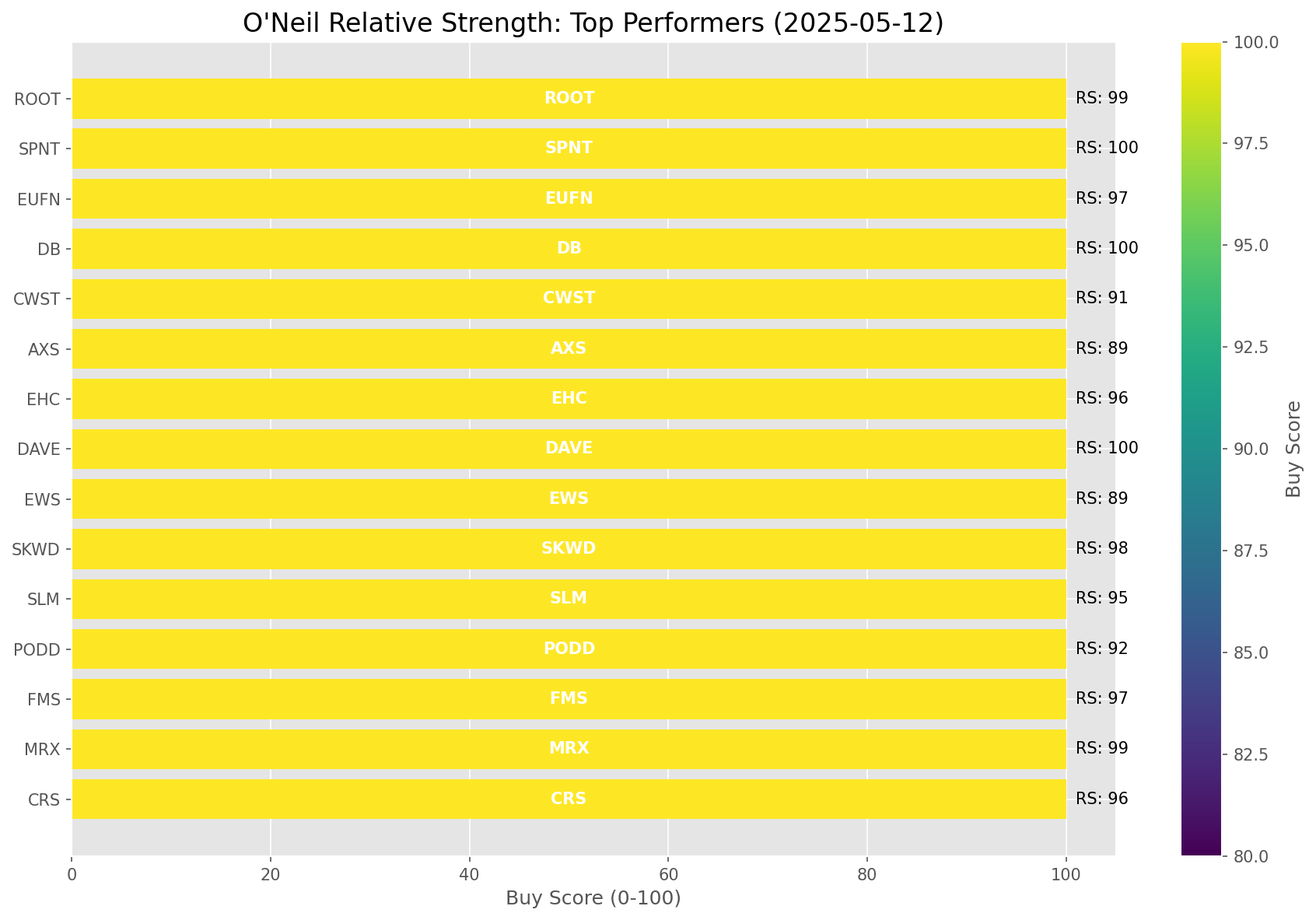
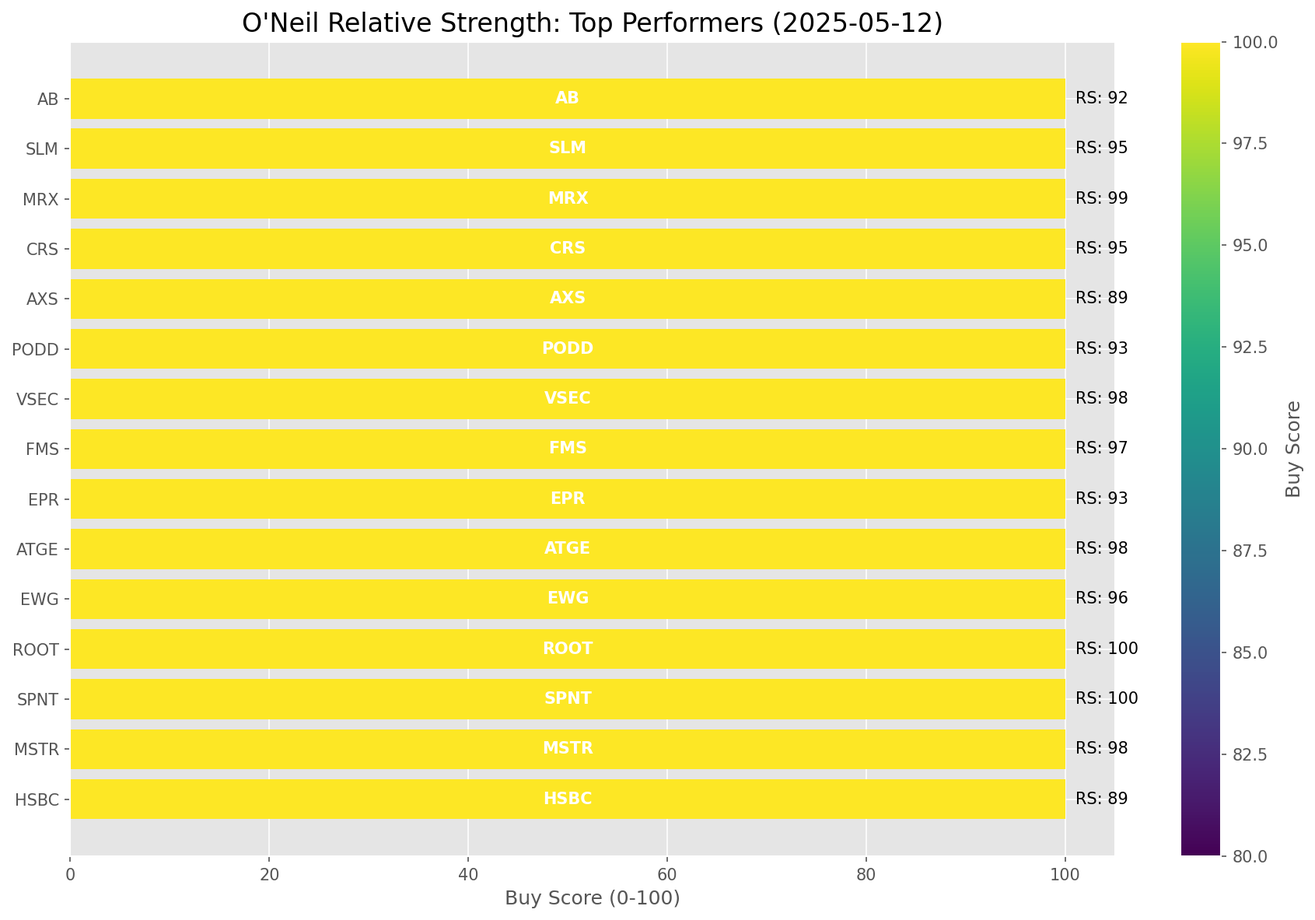
Add market report for 2025-05-12

diff --git a/oneil_relative_strength_report_2025-05-12.md b/oneil_relative_strength_report_2025-05-12.md
@@ -9,11 +9,11 @@
 | Metric | Value |
 |--------|-------|
 | **Market Valuation** | **Fair Valued** |
-| **Current Ratio** | 9.54 |
+| **Current Ratio** | 9.52 |
 | **Historical Mean** | 9.41 |
 | **Standard Deviation** | 0.51 |
 | **Z-Score (StdDev from Mean)** | -0.27 |
-| **Total Market Cap** | $285.97 trillion |
+| **Total Market Cap** | $285.36 trillion |
 | **GDP** | $29.98 trillion |
 
 ## **Market Insights**
@@ -49,41 +49,41 @@ Based on William O'Neil's Relative Strength Methodology
 
 | ETF | Strength | RS Rating | Performance | Above Key MAs | Trend | Sector |
 |-----|----------|-----------|-------------|--------------|-------|--------|
-| [KWEB](https://www.tradingview.com/chart/?symbol=KWEB) | 89.0 | 78.0 | 3.42% | 10d ✓, 50d ✓, 200d ✓ | ↗ | Chinese Internet |
-| [XLU](https://www.tradingview.com/chart/?symbol=XLU) | 87.0 | 74.0 | 1.66% | 10d ✓, 50d ✓, 200d ✓ | ↗ | Utilities |
-| [GLD](https://www.tradingview.com/chart/?symbol=GLD) | 86.1 | 92.0 | 11.10% | 10d ✗, 50d ✓, 200d ✓ | ↗ | Gold |
-| [XLI](https://www.tradingview.com/chart/?symbol=XLI) | 86.0 | 72.0 | 0.96% | 10d ✓, 50d ✓, 200d ✓ | ↗ | Industrial |
-| [XLF](https://www.tradingview.com/chart/?symbol=XLF) | 81.5 | 63.0 | -1.03% | 10d ✓, 50d ✓, 200d ✓ | ↗ | Financial |
-| [PAVE](https://www.tradingview.com/chart/?symbol=PAVE) | 81.5 | 63.0 | -1.00% | 10d ✓, 50d ✓, 200d ✓ | ↗ | Infrastructure |
-| [CIBR](https://www.tradingview.com/chart/?symbol=CIBR) | 80.5 | 61.0 | -1.51% | 10d ✓, 50d ✓, 200d ✓ | ↗ | Cybersecurity |
+| [KWEB](https://www.tradingview.com/chart/?symbol=KWEB) | 89.0 | 78.0 | 3.59% | 10d ✓, 50d ✓, 200d ✓ | ↗ | Chinese Internet |
+| [XLU](https://www.tradingview.com/chart/?symbol=XLU) | 86.5 | 73.0 | 1.41% | 10d ✓, 50d ✓, 200d ✓ | ↗ | Utilities |
+| [GLD](https://www.tradingview.com/chart/?symbol=GLD) | 86.1 | 92.0 | 11.17% | 10d ✗, 50d ✓, 200d ✓ | ↗ | Gold |
+| [XLI](https://www.tradingview.com/chart/?symbol=XLI) | 85.0 | 70.0 | 0.66% | 10d ✓, 50d ✓, 200d ✓ | ↗ | Industrial |
+| [XLF](https://www.tradingview.com/chart/?symbol=XLF) | 81.0 | 62.0 | -1.29% | 10d ✓, 50d ✓, 200d ✓ | ↗ | Financial |
+| [CIBR](https://www.tradingview.com/chart/?symbol=CIBR) | 80.0 | 60.0 | -1.70% | 10d ✓, 50d ✓, 200d ✓ | ↗ | Cybersecurity |
+| [PAVE](https://www.tradingview.com/chart/?symbol=PAVE) | 80.0 | 60.0 | -1.78% | 10d ✓, 50d ✓, 200d ✓ | ↗ | Infrastructure |
 | [IYZ](https://www.tradingview.com/chart/?symbol=IYZ) | 80.0 | 60.0 | -1.79% | 10d ✓, 50d ✓, 200d ✓ | ↗ | Telecommunications |
 | [DBA](https://www.tradingview.com/chart/?symbol=DBA) | 79.0 | 58.0 | -2.38% | 10d ✓, 50d ✓, 200d ✓ | ↗ | Agriculture |
-| [XLC](https://www.tradingview.com/chart/?symbol=XLC) | 76.0 | 52.0 | -4.01% | 10d ✓, 50d ✓, 200d ✓ | ↗ | Communications |
-| [AIQ](https://www.tradingview.com/chart/?symbol=AIQ) | 75.5 | 51.0 | -4.40% | 10d ✓, 50d ✓, 200d ✓ | ↗ | Artificial Intelligence & Technology |
-| [XLY](https://www.tradingview.com/chart/?symbol=XLY) | 70.5 | 41.0 | -6.54% | 10d ✓, 50d ✓, 200d ✓ | ↗ | Consumer Discretionary |
-| [BLOK](https://www.tradingview.com/chart/?symbol=BLOK) | 70.0 | 40.0 | -6.89% | 10d ✓, 50d ✓, 200d ✓ | ↗ | Blockchain & Cryptocurrency |
-| [IYR](https://www.tradingview.com/chart/?symbol=IYR) | 69.8 | 60.0 | -1.75% | 10d ✓, 50d ✓, 200d ✗ | ↗ | Real Estate |
-| [ARKF](https://www.tradingview.com/chart/?symbol=ARKF) | 68.0 | 36.0 | -8.31% | 10d ✓, 50d ✓, 200d ✓ | ↗ | Fintech Innovation |
-| [XLP](https://www.tradingview.com/chart/?symbol=XLP) | 66.7 | 73.0 | 1.15% | 10d ✗, 50d ✗, 200d ✓ | ↗ | Consumer Staples |
-| [SLV](https://www.tradingview.com/chart/?symbol=SLV) | 66.7 | 73.0 | 1.22% | 10d ✗, 50d ✗, 200d ✓ | ↗ | Silver |
-| [ICLN](https://www.tradingview.com/chart/?symbol=ICLN) | 65.3 | 91.0 | 9.97% | 10d ✓, 50d ✓, 200d ✗ | ↘ | Clean Energy |
+| [SLV](https://www.tradingview.com/chart/?symbol=SLV) | 76.6 | 73.0 | 1.47% | 10d ✓, 50d ✗, 200d ✓ | ↗ | Silver |
+| [XLC](https://www.tradingview.com/chart/?symbol=XLC) | 75.5 | 51.0 | -4.16% | 10d ✓, 50d ✓, 200d ✓ | ↗ | Communications |
+| [AIQ](https://www.tradingview.com/chart/?symbol=AIQ) | 74.5 | 49.0 | -4.51% | 10d ✓, 50d ✓, 200d ✓ | ↗ | Artificial Intelligence & Technology |
+| [IYR](https://www.tradingview.com/chart/?symbol=IYR) | 70.3 | 61.0 | -1.46% | 10d ✓, 50d ✓, 200d ✗ | ↗ | Real Estate |
+| [XLY](https://www.tradingview.com/chart/?symbol=XLY) | 70.0 | 40.0 | -6.72% | 10d ✓, 50d ✓, 200d ✓ | ↗ | Consumer Discretionary |
+| [BLOK](https://www.tradingview.com/chart/?symbol=BLOK) | 67.5 | 35.0 | -8.11% | 10d ✓, 50d ✓, 200d ✓ | ↗ | Blockchain & Cryptocurrency |
+| [ARKF](https://www.tradingview.com/chart/?symbol=ARKF) | 67.5 | 35.0 | -8.40% | 10d ✓, 50d ✓, 200d ✓ | ↗ | Fintech Innovation |
+| [ICLN](https://www.tradingview.com/chart/?symbol=ICLN) | 65.3 | 91.0 | 9.84% | 10d ✓, 50d ✓, 200d ✗ | ↘ | Clean Energy |
 | [ARKW](https://www.tradingview.com/chart/?symbol=ARKW) | 63.5 | 27.0 | -11.46% | 10d ✓, 50d ✓, 200d ✓ | ↗ | Next Generation Internet |
-| [JETS](https://www.tradingview.com/chart/?symbol=JETS) | 62.5 | 25.0 | -12.53% | 10d ✓, 50d ✓, 200d ✓ | ↗ | Airlines |
-| [ARKK](https://www.tradingview.com/chart/?symbol=ARKK) | 61.5 | 23.0 | -13.57% | 10d ✓, 50d ✓, 200d ✓ | ↗ | Innovation |
-| [XLK](https://www.tradingview.com/chart/?symbol=XLK) | 55.5 | 51.0 | -4.23% | 10d ✓, 50d ✓, 200d ✓ | ↘ | Technology |
-| [URA](https://www.tradingview.com/chart/?symbol=URA) | 52.5 | 45.0 | -5.67% | 10d ✓, 50d ✓, 200d ✓ | ↘ | Uranium |
-| [XLB](https://www.tradingview.com/chart/?symbol=XLB) | 49.3 | 59.0 | -2.13% | 10d ✓, 50d ✓, 200d ✗ | ↘ | Materials |
+| [ARKK](https://www.tradingview.com/chart/?symbol=ARKK) | 61.0 | 22.0 | -13.66% | 10d ✓, 50d ✓, 200d ✓ | ↗ | Innovation |
+| [JETS](https://www.tradingview.com/chart/?symbol=JETS) | 61.0 | 22.0 | -13.64% | 10d ✓, 50d ✓, 200d ✓ | ↗ | Airlines |
+| [IYT](https://www.tradingview.com/chart/?symbol=IYT) | 59.3 | 39.0 | -6.97% | 10d ✓, 50d ✓, 200d ✗ | ↗ | Transportation |
+| [XLP](https://www.tradingview.com/chart/?symbol=XLP) | 56.0 | 72.0 | 0.97% | 10d ✗, 50d ✗, 200d ✗ | ↗ | Consumer Staples |
+| [XLK](https://www.tradingview.com/chart/?symbol=XLK) | 54.5 | 49.0 | -4.47% | 10d ✓, 50d ✓, 200d ✓ | ↘ | Technology |
+| [URA](https://www.tradingview.com/chart/?symbol=URA) | 51.0 | 42.0 | -5.98% | 10d ✓, 50d ✓, 200d ✓ | ↘ | Uranium |
+| [XLB](https://www.tradingview.com/chart/?symbol=XLB) | 48.3 | 57.0 | -2.54% | 10d ✓, 50d ✓, 200d ✗ | ↘ | Materials |
 | [BIL](https://www.tradingview.com/chart/?symbol=BIL) | 43.4 | 67.0 | 0.03% | 10d ✓, 50d ✗, 200d ✗ | ↘ | Short-term Treasuries |
-| [SOXX](https://www.tradingview.com/chart/?symbol=SOXX) | 41.8 | 44.0 | -5.79% | 10d ✓, 50d ✓, 200d ✗ | ↘ | Semiconductors |
-| [IYT](https://www.tradingview.com/chart/?symbol=IYT) | 39.3 | 39.0 | -7.21% | 10d ✓, 50d ✓, 200d ✗ | ↘ | Transportation |
-| [ITB](https://www.tradingview.com/chart/?symbol=ITB) | 38.8 | 38.0 | -7.35% | 10d ✓, 50d ✓, 200d ✗ | ↘ | Home Construction |
-| [DBC](https://www.tradingview.com/chart/?symbol=DBC) | 35.4 | 51.0 | -4.35% | 10d ✓, 50d ✗, 200d ✗ | ↘ | Commodities |
-| [UUP](https://www.tradingview.com/chart/?symbol=UUP) | 33.4 | 47.0 | -5.17% | 10d ✓, 50d ✗, 200d ✗ | ↘ | U.S. Dollar |
-| [XLE](https://www.tradingview.com/chart/?symbol=XLE) | 31.4 | 43.0 | -6.03% | 10d ✓, 50d ✗, 200d ✗ | ↘ | Energy |
-| [TLT](https://www.tradingview.com/chart/?symbol=TLT) | 28.5 | 57.0 | -2.54% | 10d ✗, 50d ✗, 200d ✗ | ↘ | Long-term Treasuries |
-| [ARKG](https://www.tradingview.com/chart/?symbol=ARKG) | 28.3 | 17.0 | -16.65% | 10d ✓, 50d ✓, 200d ✗ | ↘ | Genomics |
-| [XLV](https://www.tradingview.com/chart/?symbol=XLV) | 18.5 | 37.0 | -7.79% | 10d ✗, 50d ✗, 200d ✗ | ↘ | Healthcare |
-| [IBB](https://www.tradingview.com/chart/?symbol=IBB) | 14.5 | 29.0 | -11.06% | 10d ✗, 50d ✗, 200d ✗ | ↘ | Biotechnology |
+| [SOXX](https://www.tradingview.com/chart/?symbol=SOXX) | 41.3 | 43.0 | -5.88% | 10d ✓, 50d ✓, 200d ✗ | ↘ | Semiconductors |
+| [ITB](https://www.tradingview.com/chart/?symbol=ITB) | 37.3 | 35.0 | -8.17% | 10d ✓, 50d ✓, 200d ✗ | ↘ | Home Construction |
+| [DBC](https://www.tradingview.com/chart/?symbol=DBC) | 33.9 | 48.0 | -4.71% | 10d ✓, 50d ✗, 200d ✗ | ↘ | Commodities |
+| [UUP](https://www.tradingview.com/chart/?symbol=UUP) | 32.9 | 46.0 | -5.15% | 10d ✓, 50d ✗, 200d ✗ | ↘ | U.S. Dollar |
+| [XLE](https://www.tradingview.com/chart/?symbol=XLE) | 29.9 | 40.0 | -6.63% | 10d ✓, 50d ✗, 200d ✗ | ↘ | Energy |
+| [TLT](https://www.tradingview.com/chart/?symbol=TLT) | 28.0 | 56.0 | -2.72% | 10d ✗, 50d ✗, 200d ✗ | ↘ | Long-term Treasuries |
+| [ARKG](https://www.tradingview.com/chart/?symbol=ARKG) | 27.8 | 16.0 | -17.52% | 10d ✓, 50d ✓, 200d ✗ | ↘ | Genomics |
+| [XLV](https://www.tradingview.com/chart/?symbol=XLV) | 19.0 | 38.0 | -7.27% | 10d ✗, 50d ✗, 200d ✗ | ↘ | Healthcare |
+| [IBB](https://www.tradingview.com/chart/?symbol=IBB) | 14.0 | 28.0 | -11.29% | 10d ✗, 50d ✗, 200d ✗ | ↘ | Biotechnology |
 
 ### **Sector ETF Performance Interpretation**
 
@@ -100,157 +100,158 @@ This table shows the relative strength metrics for different market sectors base
 
 The current market leadership is coming from the following sectors: **Chinese Internet, Utilities, Gold**.
 
-The **Chinese Internet** sector (represented by **KWEB**) is showing particularly strong relative strength with an RS rating of 78.0 and performance of 3.42% vs. the S&P 500. This sector is trading above its 10-day, 50-day, 200-day moving average(s). Investors should consider focusing on high RS stocks within these leading sectors for potential outperformance.
+The **Chinese Internet** sector (represented by **KWEB**) is showing particularly strong relative strength with an RS rating of 78.0 and performance of 3.59% vs. the S&P 500. This sector is trading above its 10-day, 50-day, 200-day moving average(s). Investors should consider focusing on high RS stocks within these leading sectors for potential outperformance.
 
 ---
 
 ## **Buy Recommendations**
 
-The following 52 stocks show exceptional relative strength:
+The following 50 stocks show exceptional relative strength:
 
 | RS Rating | Buy Score | Current Price | Chart | Name | Ticker |
 |-----------|-----------|---------------|-------|------|--------|
-| 100 | 100 | $171.49 | [Chart](https://www.tradingview.com/chart/?symbol=DAVE) | Dave Inc. Class A Common Stock | DAVE |
-| 100 | 100 | $27.34 | [Chart](https://www.tradingview.com/chart/?symbol=DB) | Deutsche Bank Aktiengesellschaft | DB |
 | 100 | 100 | $19.27 | [Chart](https://www.tradingview.com/chart/?symbol=SPNT) | SiriusPoint Ltd. | SPNT |
-| 100 | 100 | $87.50 | [Chart](https://www.tradingview.com/chart/?symbol=SEZL) | Sezzle Inc. Common Stock | SEZL |
-| 100 | 100 | $159.93 | [Chart](https://www.tradingview.com/chart/?symbol=PLMR) | Palomar Holdings, Inc. Common stock | PLMR |
-| 100 | 100 | $24.08 | [Chart](https://www.tradingview.com/chart/?symbol=GRND) | Grindr Inc. | GRND |
-| 99 | 100 | $47.38 | [Chart](https://www.tradingview.com/chart/?symbol=MRX) | Marex Group plc Ordinary Shares | MRX |
-| 99 | 100 | $152.00 | [Chart](https://www.tradingview.com/chart/?symbol=ROOT) | Root, Inc. Class A Common Stock | ROOT |
-| 99 | 100 | $70.17 | [Chart](https://www.tradingview.com/chart/?symbol=ULS) | UL Solutions Inc. | ULS |
-| 99 | 100 | $135.70 | [Chart](https://www.tradingview.com/chart/?symbol=ATGE) | Adtalem Global Education Inc. Common Shares | ATGE |
-| 98 | 100 | $59.87 | [Chart](https://www.tradingview.com/chart/?symbol=SKWD) | Skyward Specialty Insurance Group, Inc. Common Stock | SKWD |
-| 98 | 100 | $34.20 | [Chart](https://www.tradingview.com/chart/?symbol=AHR) | American Healthcare REIT, Inc. | AHR |
+| 100 | 100 | $153.00 | [Chart](https://www.tradingview.com/chart/?symbol=ROOT) | Root, Inc. Class A Common Stock | ROOT |
+| 100 | 100 | $27.41 | [Chart](https://www.tradingview.com/chart/?symbol=DB) | Deutsche Bank Aktiengesellschaft | DB |
+| 100 | 100 | $88.08 | [Chart](https://www.tradingview.com/chart/?symbol=SEZL) | Sezzle Inc. Common Stock | SEZL |
+| 100 | 100 | $174.50 | [Chart](https://www.tradingview.com/chart/?symbol=DAVE) | Dave Inc. Class A Common Stock | DAVE |
+| 100 | 100 | $153.68 | [Chart](https://www.tradingview.com/chart/?symbol=PLMR) | Palomar Holdings, Inc. Common stock | PLMR |
+| 99 | 100 | $47.30 | [Chart](https://www.tradingview.com/chart/?symbol=MRX) | Marex Group plc Ordinary Shares | MRX |
+| 99 | 100 | $70.01 | [Chart](https://www.tradingview.com/chart/?symbol=ULS) | UL Solutions Inc. | ULS |
+| 99 | 100 | $23.63 | [Chart](https://www.tradingview.com/chart/?symbol=GRND) | Grindr Inc. | GRND |
+| 98 | 100 | $408.57 | [Chart](https://www.tradingview.com/chart/?symbol=MSTR) | MicroStrategy Inc | MSTR |
+| 98 | 100 | $132.59 | [Chart](https://www.tradingview.com/chart/?symbol=ATGE) | Adtalem Global Education Inc. Common Shares | ATGE |
 | 98 | 100 | $129.14 | [Chart](https://www.tradingview.com/chart/?symbol=VSEC) | VSE Corp | VSEC |
+| 98 | 100 | $34.69 | [Chart](https://www.tradingview.com/chart/?symbol=AHR) | American Healthcare REIT, Inc. | AHR |
 | 97 | 100 | $28.39 | [Chart](https://www.tradingview.com/chart/?symbol=FMS) | Fresenius Medical Care AG | FMS |
-| 97 | 100 | $30.61 | [Chart](https://www.tradingview.com/chart/?symbol=EUFN) | iShares MSCI Europe Financials ETF | EUFN |
-| 97 | 100 | $22.88 | [Chart](https://www.tradingview.com/chart/?symbol=LAUR) | Laureate Education, Inc. Common Stock | LAUR |
-| 97 | 100 | $38.35 | [Chart](https://www.tradingview.com/chart/?symbol=PAY) | Paymentus Holdings, Inc. | PAY |
-| 97 | 100 | $33.95 | [Chart](https://www.tradingview.com/chart/?symbol=UTI) | Universal Technical Institute, Inc. | UTI |
-| 96 | 100 | $217.81 | [Chart](https://www.tradingview.com/chart/?symbol=CRS) | Carpenter Technology Corp | CRS |
-| 96 | 100 | $116.41 | [Chart](https://www.tradingview.com/chart/?symbol=EHC) | Encompass Health Corporation Common Stock | EHC |
-| 96 | 100 | $148.18 | [Chart](https://www.tradingview.com/chart/?symbol=CAH) | Cardinal Health, Inc. | CAH |
-| 96 | 100 | $40.27 | [Chart](https://www.tradingview.com/chart/?symbol=EWG) | iShares MSCI Germany ETF | EWG |
-| 95 | 100 | $33.13 | [Chart](https://www.tradingview.com/chart/?symbol=SLM) | SLM Corporation | SLM |
-| 95 | 100 | $142.64 | [Chart](https://www.tradingview.com/chart/?symbol=TW) | Tradeweb Markets Inc. Class A Common Stock | TW |
+| 97 | 100 | $116.66 | [Chart](https://www.tradingview.com/chart/?symbol=EHC) | Encompass Health Corporation Common Stock | EHC |
+| 97 | 100 | $148.07 | [Chart](https://www.tradingview.com/chart/?symbol=CAH) | Cardinal Health, Inc. | CAH |
+| 97 | 100 | $38.28 | [Chart](https://www.tradingview.com/chart/?symbol=PAY) | Paymentus Holdings, Inc. | PAY |
+| 97 | 100 | $30.70 | [Chart](https://www.tradingview.com/chart/?symbol=EUFN) | iShares MSCI Europe Financials ETF | EUFN |
+| 96 | 100 | $40.32 | [Chart](https://www.tradingview.com/chart/?symbol=EWG) | iShares MSCI Germany ETF | EWG |
+| 96 | 100 | $298.25 | [Chart](https://www.tradingview.com/chart/?symbol=PEN) | Penumbra, Inc. | PEN |
+| 96 | 100 | $33.47 | [Chart](https://www.tradingview.com/chart/?symbol=UTI) | Universal Technical Institute, Inc. | UTI |
+| 95 | 100 | $214.94 | [Chart](https://www.tradingview.com/chart/?symbol=CRS) | Carpenter Technology Corp | CRS |
+| 95 | 100 | $32.91 | [Chart](https://www.tradingview.com/chart/?symbol=SLM) | SLM Corporation | SLM |
 | 95 | 100 | $61.81 | [Chart](https://www.tradingview.com/chart/?symbol=CHEF) | The Chef's Warehouse Inc | CHEF |
-| 95 | 100 | $82.02 | [Chart](https://www.tradingview.com/chart/?symbol=NFG) | National Fuel Gas Co. | NFG |
-| 95 | 100 | $297.32 | [Chart](https://www.tradingview.com/chart/?symbol=PEN) | Penumbra, Inc. | PEN |
-| 94 | 100 | $47.38 | [Chart](https://www.tradingview.com/chart/?symbol=ERJ) | Embraer S.A. | ERJ |
-| 94 | 100 | $105.06 | [Chart](https://www.tradingview.com/chart/?symbol=RBA) | RB Global, Inc. | RBA |
-| 94 | 100 | $73.07 | [Chart](https://www.tradingview.com/chart/?symbol=RBLX) | Roblox Corporation | RBLX |
-| 94 | 100 | $141.49 | [Chart](https://www.tradingview.com/chart/?symbol=SE) | Sea Limited American Depositary Shares, each representing one Class A Ordinary Share | SE |
-| 92 | 100 | $315.43 | [Chart](https://www.tradingview.com/chart/?symbol=PODD) | Insulet Corporation | PODD |
-| 92 | 100 | $16.63 | [Chart](https://www.tradingview.com/chart/?symbol=BCS) | Barclays PLC | BCS |
+| 94 | 100 | $141.30 | [Chart](https://www.tradingview.com/chart/?symbol=SE) | Sea Limited American Depositary Shares, each representing one Class A Ordinary Share | SE |
+| 94 | 100 | $47.35 | [Chart](https://www.tradingview.com/chart/?symbol=ERJ) | Embraer S.A. | ERJ |
+| 94 | 100 | $80.97 | [Chart](https://www.tradingview.com/chart/?symbol=NFG) | National Fuel Gas Co. | NFG |
+| 94 | 100 | $105.00 | [Chart](https://www.tradingview.com/chart/?symbol=RBA) | RB Global, Inc. | RBA |
+| 94 | 100 | $73.29 | [Chart](https://www.tradingview.com/chart/?symbol=RBLX) | Roblox Corporation | RBLX |
+| 93 | 100 | $53.21 | [Chart](https://www.tradingview.com/chart/?symbol=EPR) | EPR Properties | EPR |
+| 93 | 100 | $317.63 | [Chart](https://www.tradingview.com/chart/?symbol=PODD) | Insulet Corporation | PODD |
+| 93 | 100 | $16.71 | [Chart](https://www.tradingview.com/chart/?symbol=BCS) | Barclays PLC | BCS |
 | 92 | 100 | $40.76 | [Chart](https://www.tradingview.com/chart/?symbol=AB) | AllianceBernstein Holding, L.P. | AB |
-| 92 | 100 | $52.91 | [Chart](https://www.tradingview.com/chart/?symbol=EPR) | EPR Properties | EPR |
-| 91 | 100 | $118.50 | [Chart](https://www.tradingview.com/chart/?symbol=CWST) | Casella Waste Systems Inc | CWST |
-| 90 | 100 | $68.07 | [Chart](https://www.tradingview.com/chart/?symbol=CTVA) | Corteva, Inc. Common Stock | CTVA |
-| 89 | 100 | $24.94 | [Chart](https://www.tradingview.com/chart/?symbol=EWS) | iShares MSCI Singapore ETF | EWS |
+| 90 | 100 | $67.80 | [Chart](https://www.tradingview.com/chart/?symbol=CTVA) | Corteva, Inc. Common Stock | CTVA |
+| 89 | 100 | $58.58 | [Chart](https://www.tradingview.com/chart/?symbol=HSBC) | HSBC Holdings PLC | HSBC |
 | 89 | 100 | $101.22 | [Chart](https://www.tradingview.com/chart/?symbol=AXS) | Axis Capital Holders Limited | AXS |
+| 89 | 100 | $25.09 | [Chart](https://www.tradingview.com/chart/?symbol=EWS) | iShares MSCI Singapore ETF | EWS |
 | 88 | 100 | $196.10 | [Chart](https://www.tradingview.com/chart/?symbol=LOPE) | Grand Canyon Education, Inc | LOPE |
-| 89 | 99 | $13.40 | [Chart](https://www.tradingview.com/chart/?symbol=CNH) | CNH INDUSTRIAL N.V. | CNH |
-| 87 | 97 | $57.34 | [Chart](https://www.tradingview.com/chart/?symbol=IGF) | iShares Global Infrastructure ETF | IGF |
+| 90 | 99 | $85.24 | [Chart](https://www.tradingview.com/chart/?symbol=TGLS) | Tecnoglass Inc. | TGLS |
+| 88 | 98 | $30.74 | [Chart](https://www.tradingview.com/chart/?symbol=PRDO) | Perdoceo Education Corporation | PRDO |
+| 88 | 98 | $13.26 | [Chart](https://www.tradingview.com/chart/?symbol=CNH) | CNH INDUSTRIAL N.V. | CNH |
+| 87 | 98 | $93.41 | [Chart](https://www.tradingview.com/chart/?symbol=HEES) | H&E Equipment Services, Inc. | HEES |
+| 84 | 97 | $45.84 | [Chart](https://www.tradingview.com/chart/?symbol=QFIN) | Qifu Technology, Inc. American Depositary Shares | QFIN |
 | 85 | 96 | $205.37 | [Chart](https://www.tradingview.com/chart/?symbol=BAP) | Credicorp LTD | BAP |
-| 85 | 94 | $59.13 | [Chart](https://www.tradingview.com/chart/?symbol=IBIT) | iShares Bitcoin Trust ETF | IBIT |
-| 85 | 94 | $82.53 | [Chart](https://www.tradingview.com/chart/?symbol=TGLS) | Tecnoglass Inc. | TGLS |
-| 84 | 94 | $29.57 | [Chart](https://www.tradingview.com/chart/?symbol=ATAT) | Atour Lifestyle Holdings Limited American Depositary Shares | ATAT |
-| 81 | 92 | $23.26 | [Chart](https://www.tradingview.com/chart/?symbol=BTSG) | BrightSpring Health Services, Inc. Common Stock | BTSG |
-| 81 | 92 | $164.83 | [Chart](https://www.tradingview.com/chart/?symbol=ITA) | iShares U.S. Aerospace & Defense ETF | ITA |
-| 80 | 91 | $203.91 | [Chart](https://www.tradingview.com/chart/?symbol=DFS) | Discover Financial Services | DFS |
-| 80 | 91 | $73.20 | [Chart](https://www.tradingview.com/chart/?symbol=USFD) | US Foods Holding Corp. | USFD |
-| 80 | 90 | $12.88 | [Chart](https://www.tradingview.com/chart/?symbol=MUFG) | Mitsubishi UFJ Financial Group, Inc. | MUFG |
-| 80 | 90 | $16.98 | [Chart](https://www.tradingview.com/chart/?symbol=MIR) | Mirion Technologies, Inc. | MIR |
+| 84 | 95 | $29.61 | [Chart](https://www.tradingview.com/chart/?symbol=ATAT) | Atour Lifestyle Holdings Limited American Depositary Shares | ATAT |
+| 81 | 93 | $204.37 | [Chart](https://www.tradingview.com/chart/?symbol=DRI) | Darden Restaurants, Inc. | DRI |
+| 83 | 92 | $58.39 | [Chart](https://www.tradingview.com/chart/?symbol=IBIT) | iShares Bitcoin Trust ETF | IBIT |
+| 81 | 92 | $164.76 | [Chart](https://www.tradingview.com/chart/?symbol=ITA) | iShares U.S. Aerospace & Defense ETF | ITA |
+| 80 | 90 | $12.94 | [Chart](https://www.tradingview.com/chart/?symbol=MUFG) | Mitsubishi UFJ Financial Group, Inc. | MUFG |
+| 80 | 90 | $16.99 | [Chart](https://www.tradingview.com/chart/?symbol=MIR) | Mirion Technologies, Inc. | MIR |
 
 ---
 
 
 ## **Sell Recommendations**
 
-The following 79 stocks show deteriorating relative strength:
+The following 82 stocks show deteriorating relative strength:
 
 | RS Rating | Sell Score | Current Price | Chart | Name | Ticker |
 |-----------|------------|---------------|-------|------|--------|
-| 1 | 100 | $10.08 | [Chart](https://www.tradingview.com/chart/?symbol=NRIX) | Nurix Therapeutics, Inc. Common stock | NRIX |
-| 1 | 100 | $20.97 | [Chart](https://www.tradingview.com/chart/?symbol=BHVN) | Biohaven Ltd. | BHVN |
-| 1 | 100 | $21.13 | [Chart](https://www.tradingview.com/chart/?symbol=GCO) | Genesco Inc. | GCO |
-| 2 | 100 | $290.89 | [Chart](https://www.tradingview.com/chart/?symbol=SAIA) | Saia, Inc. | SAIA |
-| 2 | 100 | $13.98 | [Chart](https://www.tradingview.com/chart/?symbol=DQ) | Daqo New Energy Corp. American Depositary Shares (each representing 5 Ordinary Shares) | DQ |
-| 3 | 100 | $10.31 | [Chart](https://www.tradingview.com/chart/?symbol=LSPD) | Lightspeed Commerce Inc. | LSPD |
-| 4 | 100 | $12.96 | [Chart](https://www.tradingview.com/chart/?symbol=MNRO) | Monro, Inc. Common Stock | MNRO |
-| 4 | 100 | $10.98 | [Chart](https://www.tradingview.com/chart/?symbol=ARCT) | Arcturus Therapeutics Holdings Inc. Common Stock | ARCT |
-| 6 | 100 | $13.57 | [Chart](https://www.tradingview.com/chart/?symbol=FL) | Foot Locker, Inc. | FL |
+| 1 | 100 | $10.00 | [Chart](https://www.tradingview.com/chart/?symbol=NRIX) | Nurix Therapeutics, Inc. Common stock | NRIX |
+| 1 | 100 | $20.39 | [Chart](https://www.tradingview.com/chart/?symbol=BHVN) | Biohaven Ltd. | BHVN |
+| 2 | 100 | $13.96 | [Chart](https://www.tradingview.com/chart/?symbol=DQ) | Daqo New Energy Corp. American Depositary Shares (each representing 5 Ordinary Shares) | DQ |
+| 3 | 100 | $10.29 | [Chart](https://www.tradingview.com/chart/?symbol=LSPD) | Lightspeed Commerce Inc. | LSPD |
+| 4 | 100 | $13.07 | [Chart](https://www.tradingview.com/chart/?symbol=MNRO) | Monro, Inc. Common Stock | MNRO |
+| 5 | 100 | $13.19 | [Chart](https://www.tradingview.com/chart/?symbol=FL) | Foot Locker, Inc. | FL |
+| 5 | 100 | $11.72 | [Chart](https://www.tradingview.com/chart/?symbol=ARCT) | Arcturus Therapeutics Holdings Inc. Common Stock | ARCT |
 | 6 | 100 | $28.01 | [Chart](https://www.tradingview.com/chart/?symbol=SRDX) | Surmodics, Inc. Common Stock | SRDX |
-| 7 | 100 | $16.02 | [Chart](https://www.tradingview.com/chart/?symbol=PENN) | PENN Entertainment, Inc. Common Stock | PENN |
-| 7 | 100 | $125.11 | [Chart](https://www.tradingview.com/chart/?symbol=TFX) | Teleflex Incorporated | TFX |
-| 7 | 100 | $32.93 | [Chart](https://www.tradingview.com/chart/?symbol=AAP) | ADVANCE AUTO PARTS INC | AAP |
-| 9 | 100 | $14.73 | [Chart](https://www.tradingview.com/chart/?symbol=IMVT) | Immunovant, Inc. Common Stock | IMVT |
-| 11 | 100 | $32.64 | [Chart](https://www.tradingview.com/chart/?symbol=CYTK) | Cytokinetics Inc. | CYTK |
+| 7 | 100 | $15.87 | [Chart](https://www.tradingview.com/chart/?symbol=PENN) | PENN Entertainment, Inc. Common Stock | PENN |
+| 7 | 100 | $32.96 | [Chart](https://www.tradingview.com/chart/?symbol=AAP) | ADVANCE AUTO PARTS INC | AAP |
+| 7 | 100 | $11.65 | [Chart](https://www.tradingview.com/chart/?symbol=JAMF) | Jamf Holding Corp. Common Stock | JAMF |
+| 8 | 100 | $14.49 | [Chart](https://www.tradingview.com/chart/?symbol=IMVT) | Immunovant, Inc. Common Stock | IMVT |
+| 9 | 100 | $130.02 | [Chart](https://www.tradingview.com/chart/?symbol=TFX) | Teleflex Incorporated | TFX |
+| 9 | 100 | $32.10 | [Chart](https://www.tradingview.com/chart/?symbol=CYTK) | Cytokinetics Inc. | CYTK |
 | 11 | 100 | $58.62 | [Chart](https://www.tradingview.com/chart/?symbol=AMWD) | American Woodmark Corp | AMWD |
-| 11 | 100 | $16.25 | [Chart](https://www.tradingview.com/chart/?symbol=DXC) | DXC Technology Company | DXC |
-| 13 | 100 | $47.33 | [Chart](https://www.tradingview.com/chart/?symbol=RHI) | Robert Half Inc. | RHI |
-| 14 | 100 | $34.41 | [Chart](https://www.tradingview.com/chart/?symbol=SMCI) | Super Micro Computer, Inc. Common Stock | SMCI |
-| 15 | 100 | $27.32 | [Chart](https://www.tradingview.com/chart/?symbol=AGIO) | Agios Pharmaceuticals, Inc. | AGIO |
+| 11 | 100 | $33.35 | [Chart](https://www.tradingview.com/chart/?symbol=SMCI) | Super Micro Computer, Inc. Common Stock | SMCI |
+| 12 | 100 | $47.06 | [Chart](https://www.tradingview.com/chart/?symbol=RHI) | Robert Half Inc. | RHI |
+| 7 | 99 | $12.72 | [Chart](https://www.tradingview.com/chart/?symbol=LBRT) | Liberty Energy Inc. | LBRT |
 | 10 | 99 | $11.34 | [Chart](https://www.tradingview.com/chart/?symbol=HPK) | HighPeak Energy, Inc. Common Stock | HPK |
 | 17 | 99 | $10.34 | [Chart](https://www.tradingview.com/chart/?symbol=CMRE) | Costamare Inc. | CMRE |
+| 2 | 98 | $287.20 | [Chart](https://www.tradingview.com/chart/?symbol=SAIA) | Saia, Inc. | SAIA |
 | 10 | 98 | $12.05 | [Chart](https://www.tradingview.com/chart/?symbol=ZUMZ) | Zumiez Inc. | ZUMZ |
-| 11 | 98 | $19.06 | [Chart](https://www.tradingview.com/chart/?symbol=OII) | Oceaneering International Inc. | OII |
-| 20 | 98 | $93.04 | [Chart](https://www.tradingview.com/chart/?symbol=CHRD) | Chord Energy Corporation Common Stock | CHRD |
-| 9 | 97 | $13.04 | [Chart](https://www.tradingview.com/chart/?symbol=LBRT) | Liberty Energy Inc. | LBRT |
+| 9 | 97 | $99.46 | [Chart](https://www.tradingview.com/chart/?symbol=TGT) | Target Corporation | TGT |
 | 10 | 97 | $29.35 | [Chart](https://www.tradingview.com/chart/?symbol=MBUU) | Malibu Boats, Inc. Class A | MBUU |
+| 19 | 97 | $28.80 | [Chart](https://www.tradingview.com/chart/?symbol=AGIO) | Agios Pharmaceuticals, Inc. | AGIO |
+| 21 | 97 | $11.03 | [Chart](https://www.tradingview.com/chart/?symbol=BWLP) | BW LPG Limited | BWLP |
+| 25 | 97 | $13.31 | [Chart](https://www.tradingview.com/chart/?symbol=MED) | Medifast, Inc. | MED |
 | 6 | 96 | $10.31 | [Chart](https://www.tradingview.com/chart/?symbol=VREX) | Varex Imaging Corporation Common Stock | VREX |
-| 11 | 96 | $10.55 | [Chart](https://www.tradingview.com/chart/?symbol=PEB) | Pebblebrook Hotel Trust | PEB |
+| 11 | 96 | $10.03 | [Chart](https://www.tradingview.com/chart/?symbol=MTAL) | MAC Copper Limited | MTAL |
 | 19 | 96 | $12.46 | [Chart](https://www.tradingview.com/chart/?symbol=AEYE) | AudioEye, Inc. Common Stock | AEYE |
-| 22 | 96 | $11.03 | [Chart](https://www.tradingview.com/chart/?symbol=BWLP) | BW LPG Limited | BWLP |
-| 8 | 95 | $116.59 | [Chart](https://www.tradingview.com/chart/?symbol=BLDR) | Builders FirstSource, Inc. | BLDR |
-| 12 | 95 | $10.03 | [Chart](https://www.tradingview.com/chart/?symbol=MTAL) | MAC Copper Limited | MTAL |
-| 26 | 94 | $14.63 | [Chart](https://www.tradingview.com/chart/?symbol=FXN) | First Trust Energy AlphaDEX Fund | FXN |
-| 23 | 93 | $144.33 | [Chart](https://www.tradingview.com/chart/?symbol=MTN) | Vail Resorts, Inc. | MTN |
+| 23 | 96 | $97.95 | [Chart](https://www.tradingview.com/chart/?symbol=CHRD) | Chord Energy Corporation Common Stock | CHRD |
+| 7 | 95 | $114.77 | [Chart](https://www.tradingview.com/chart/?symbol=BLDR) | Builders FirstSource, Inc. | BLDR |
+| 11 | 95 | $10.46 | [Chart](https://www.tradingview.com/chart/?symbol=PEB) | Pebblebrook Hotel Trust | PEB |
+| 13 | 95 | $17.76 | [Chart](https://www.tradingview.com/chart/?symbol=MLKN) | MillerKnoll, Inc. Common Stock | MLKN |
+| 11 | 93 | $54.67 | [Chart](https://www.tradingview.com/chart/?symbol=PRCT) | PROCEPT BioRobotics Corporation Common Stock | PRCT |
 | 12 | 92 | $31.47 | [Chart](https://www.tradingview.com/chart/?symbol=MBIN) | Merchants Bancorp Common Stock | MBIN |
-| 10 | 91 | $53.12 | [Chart](https://www.tradingview.com/chart/?symbol=PRCT) | PROCEPT BioRobotics Corporation Common Stock | PRCT |
-| 19 | 91 | $51.84 | [Chart](https://www.tradingview.com/chart/?symbol=ERX) | Direxion Daily Energy Bull 2X Shares | ERX |
-| 13 | 90 | $12.27 | [Chart](https://www.tradingview.com/chart/?symbol=APLE) | Apple Hospitality REIT, Inc. | APLE |
-| 18 | 90 | $84.04 | [Chart](https://www.tradingview.com/chart/?symbol=WHR) | Whirlpool Corp. | WHR |
-| 23 | 90 | $16.46 | [Chart](https://www.tradingview.com/chart/?symbol=PD) | PagerDuty, Inc. | PD |
-| 14 | 89 | $16.08 | [Chart](https://www.tradingview.com/chart/?symbol=CHCT) | Community Healthcare Trust Incorporated Common Stock, $0.01 par value per share | CHCT |
+| 17 | 92 | $51.22 | [Chart](https://www.tradingview.com/chart/?symbol=ERX) | Direxion Daily Energy Bull 2X Shares | ERX |
+| 16 | 91 | $83.21 | [Chart](https://www.tradingview.com/chart/?symbol=WHR) | Whirlpool Corp. | WHR |
+| 22 | 91 | $16.41 | [Chart](https://www.tradingview.com/chart/?symbol=PD) | PagerDuty, Inc. | PD |
+| 12 | 90 | $12.12 | [Chart](https://www.tradingview.com/chart/?symbol=APLE) | Apple Hospitality REIT, Inc. | APLE |
+| 13 | 90 | $16.08 | [Chart](https://www.tradingview.com/chart/?symbol=CHCT) | Community Healthcare Trust Incorporated Common Stock, $0.01 par value per share | CHCT |
+| 24 | 89 | $51.00 | [Chart](https://www.tradingview.com/chart/?symbol=LW) | Lamb Weston Holdings, Inc. | LW |
+| 13 | 88 | $14.91 | [Chart](https://www.tradingview.com/chart/?symbol=INMD) | InMode Ltd. Ordinary Shares | INMD |
 | 18 | 88 | $10.38 | [Chart](https://www.tradingview.com/chart/?symbol=AVO) | Mission Produce, Inc. Common Stock | AVO |
 | 18 | 88 | $12.41 | [Chart](https://www.tradingview.com/chart/?symbol=DBO) | Invesco DB Oil Fund | DBO |
-| 25 | 88 | $51.08 | [Chart](https://www.tradingview.com/chart/?symbol=LW) | Lamb Weston Holdings, Inc. | LW |
+| 24 | 88 | $35.98 | [Chart](https://www.tradingview.com/chart/?symbol=SLB) | Schlumberger Limited | SLB |
+| 30 | 88 | $148.69 | [Chart](https://www.tradingview.com/chart/?symbol=MTN) | Vail Resorts, Inc. | MTN |
 | 34 | 88 | $28.40 | [Chart](https://www.tradingview.com/chart/?symbol=IMCR) | Immunocore Holdings plc American Depositary Shares | IMCR |
-| 14 | 87 | $14.90 | [Chart](https://www.tradingview.com/chart/?symbol=INMD) | InMode Ltd. Ordinary Shares | INMD |
+| 20 | 87 | $10.15 | [Chart](https://www.tradingview.com/chart/?symbol=CELC) | Celcuity Inc. Common Stock | CELC |
 | 20 | 86 | $19.25 | [Chart](https://www.tradingview.com/chart/?symbol=AAT) | AMERICAN ASSETS TRUST, INC. | AAT |
-| 21 | 86 | $10.15 | [Chart](https://www.tradingview.com/chart/?symbol=CELC) | Celcuity Inc. Common Stock | CELC |
-| 23 | 86 | $83.38 | [Chart](https://www.tradingview.com/chart/?symbol=KSPI) | Joint Stock Company Kaspi.kz American Depository Shares | KSPI |
-| 26 | 86 | $36.29 | [Chart](https://www.tradingview.com/chart/?symbol=SLB) | Schlumberger Limited | SLB |
-| 16 | 85 | $12.21 | [Chart](https://www.tradingview.com/chart/?symbol=XHR) | Xenia Hotels & Resorts, Inc. | XHR |
+| 22 | 86 | $19.45 | [Chart](https://www.tradingview.com/chart/?symbol=PLAB) | Photronics Inc | PLAB |
+| 23 | 86 | $13.45 | [Chart](https://www.tradingview.com/chart/?symbol=WDS) | Woodside Energy Group Limited American Depositary Shares, each representing one Ordinary Share | WDS |
 | 20 | 85 | $37.00 | [Chart](https://www.tradingview.com/chart/?symbol=NBHC) | NATIONAL BANK HOLDINGS CORP. | NBHC |
-| 21 | 85 | $38.02 | [Chart](https://www.tradingview.com/chart/?symbol=TECS) | Direxion Daily Technology Bear 3x Shares | TECS |
-| 23 | 85 | $19.45 | [Chart](https://www.tradingview.com/chart/?symbol=PLAB) | Photronics Inc | PLAB |
-| 19 | 84 | $97.06 | [Chart](https://www.tradingview.com/chart/?symbol=RVTY) | Revvity, Inc. | RVTY |
 | 18 | 83 | $34.99 | [Chart](https://www.tradingview.com/chart/?symbol=BHE) | Benchmark Electronics | BHE |
-| 29 | 83 | $20.38 | [Chart](https://www.tradingview.com/chart/?symbol=BITI) | ProShares Short Bitcoin ETF | BITI |
+| 19 | 83 | $97.11 | [Chart](https://www.tradingview.com/chart/?symbol=RVTY) | Revvity, Inc. | RVTY |
+| 22 | 83 | $38.34 | [Chart](https://www.tradingview.com/chart/?symbol=TECS) | Direxion Daily Technology Bear 3x Shares | TECS |
+| 23 | 82 | $55.36 | [Chart](https://www.tradingview.com/chart/?symbol=KBH) | KB Home | KBH |
 | 24 | 82 | $14.14 | [Chart](https://www.tradingview.com/chart/?symbol=BMEZ) | BlackRock Health Sciences Term Trust | BMEZ |
-| 25 | 81 | $56.16 | [Chart](https://www.tradingview.com/chart/?symbol=KBH) | KB Home | KBH |
-| 32 | 80 | $20.80 | [Chart](https://www.tradingview.com/chart/?symbol=CSWC) | Capital Southwest Corp | CSWC |
+| 31 | 80 | $20.61 | [Chart](https://www.tradingview.com/chart/?symbol=BITI) | ProShares Short Bitcoin ETF | BITI |
 | 29 | 79 | $19.18 | [Chart](https://www.tradingview.com/chart/?symbol=HVT) | Haverty Furniture Companies, Inc. | HVT |
-| 39 | 78 | $66.03 | [Chart](https://www.tradingview.com/chart/?symbol=ZROZ) | PIMCO 25+ Year Zero Coupon U.S. Treasury Index Exchange-Traded Fund | ZROZ |
+| 33 | 78 | $20.95 | [Chart](https://www.tradingview.com/chart/?symbol=CSWC) | Capital Southwest Corp | CSWC |
+| 39 | 78 | $65.60 | [Chart](https://www.tradingview.com/chart/?symbol=ZROZ) | PIMCO 25+ Year Zero Coupon U.S. Treasury Index Exchange-Traded Fund | ZROZ |
+| 23 | 77 | $74.54 | [Chart](https://www.tradingview.com/chart/?symbol=WFG) | West Fraser Timber Co. Ltd | WFG |
+| 25 | 77 | $14.63 | [Chart](https://www.tradingview.com/chart/?symbol=RYLD) | Global X Russell 2000 Covered Call ETF | RYLD |
 | 26 | 77 | $16.41 | [Chart](https://www.tradingview.com/chart/?symbol=QYLD) | Global X Funds Global X NASDAQ-100 Covered Call ETF | QYLD |
-| 26 | 77 | $14.63 | [Chart](https://www.tradingview.com/chart/?symbol=RYLD) | Global X Russell 2000 Covered Call ETF | RYLD |
-| 24 | 76 | $74.54 | [Chart](https://www.tradingview.com/chart/?symbol=WFG) | West Fraser Timber Co. Ltd | WFG |
-| 34 | 76 | $27.92 | [Chart](https://www.tradingview.com/chart/?symbol=BNO) | United States Brent Oil Fund, LP | BNO |
-| 35 | 75 | $32.71 | [Chart](https://www.tradingview.com/chart/?symbol=LEGN) | Legend Biotech Corporation American Depositary Shares | LEGN |
-| 31 | 74 | $192.62 | [Chart](https://www.tradingview.com/chart/?symbol=NDSN) | Nordson Corp | NDSN |
+| 32 | 77 | $27.69 | [Chart](https://www.tradingview.com/chart/?symbol=BNO) | United States Brent Oil Fund, LP | BNO |
+| 31 | 76 | $110.77 | [Chart](https://www.tradingview.com/chart/?symbol=LEN) | Lennar Corporation Class A | LEN |
+| 25 | 75 | $114.14 | [Chart](https://www.tradingview.com/chart/?symbol=EOG) | EOG Resources, Inc. | EOG |
+| 32 | 75 | $131.02 | [Chart](https://www.tradingview.com/chart/?symbol=PEP) | PepsiCo, Inc. | PEP |
+| 37 | 75 | $134.85 | [Chart](https://www.tradingview.com/chart/?symbol=HES) | Hess Corporation | HES |
+| 30 | 74 | $14.28 | [Chart](https://www.tradingview.com/chart/?symbol=EIC) | Eagle Point Income Company Inc. | EIC |
+| 30 | 74 | $94.92 | [Chart](https://www.tradingview.com/chart/?symbol=PCAR) | Paccar Inc | PCAR |
 | 33 | 74 | $57.05 | [Chart](https://www.tradingview.com/chart/?symbol=UHAL.B) | U-Haul Holding Company | UHAL.B |
-| 34 | 74 | $111.50 | [Chart](https://www.tradingview.com/chart/?symbol=LEN) | Lennar Corporation Class A | LEN |
-| 34 | 73 | $131.25 | [Chart](https://www.tradingview.com/chart/?symbol=PEP) | PepsiCo, Inc. | PEP |
-| 28 | 72 | $115.61 | [Chart](https://www.tradingview.com/chart/?symbol=EOG) | EOG Resources, Inc. | EOG |
-| 35 | 72 | $56.41 | [Chart](https://www.tradingview.com/chart/?symbol=IYH) | iShares U.S. Healthcare ETF | IYH |
-| 37 | 71 | $12.09 | [Chart](https://www.tradingview.com/chart/?symbol=KELYA) | Kelly Services Inc | KELYA |
-| 34 | 70 | $17.41 | [Chart](https://www.tradingview.com/chart/?symbol=MLNK) | MeridianLink, Inc. | MLNK |
-| 37 | 69 | $15.01 | [Chart](https://www.tradingview.com/chart/?symbol=HR) | Healthcare Realty Trust Incorporated | HR |
-| 39 | 68 | $13.71 | [Chart](https://www.tradingview.com/chart/?symbol=BSM) | Black Stone Minerals, L.P. | BSM |
-| 38 | 64 | $273.11 | [Chart](https://www.tradingview.com/chart/?symbol=AMGN) | Amgen Inc | AMGN |
+| 36 | 74 | $32.90 | [Chart](https://www.tradingview.com/chart/?symbol=LEGN) | Legend Biotech Corporation American Depositary Shares | LEGN |
+| 31 | 72 | $10.58 | [Chart](https://www.tradingview.com/chart/?symbol=LADR) | LADDER CAPITAL CORP | LADR |
+| 36 | 72 | $12.09 | [Chart](https://www.tradingview.com/chart/?symbol=KELYA) | Kelly Services Inc | KELYA |
+| 36 | 72 | $13.95 | [Chart](https://www.tradingview.com/chart/?symbol=BSM) | Black Stone Minerals, L.P. | BSM |
+| 33 | 71 | $17.41 | [Chart](https://www.tradingview.com/chart/?symbol=MLNK) | MeridianLink, Inc. | MLNK |
+| 35 | 71 | $56.71 | [Chart](https://www.tradingview.com/chart/?symbol=IYH) | iShares U.S. Healthcare ETF | IYH |
+| 35 | 70 | $14.94 | [Chart](https://www.tradingview.com/chart/?symbol=HR) | Healthcare Realty Trust Incorporated | HR |
+| 38 | 68 | $118.22 | [Chart](https://www.tradingview.com/chart/?symbol=VDE) | Vanguard Energy ETF | VDE |
+| 38 | 64 | $274.01 | [Chart](https://www.tradingview.com/chart/?symbol=AMGN) | Amgen Inc | AMGN |
 
 ## **Methodology**
 
